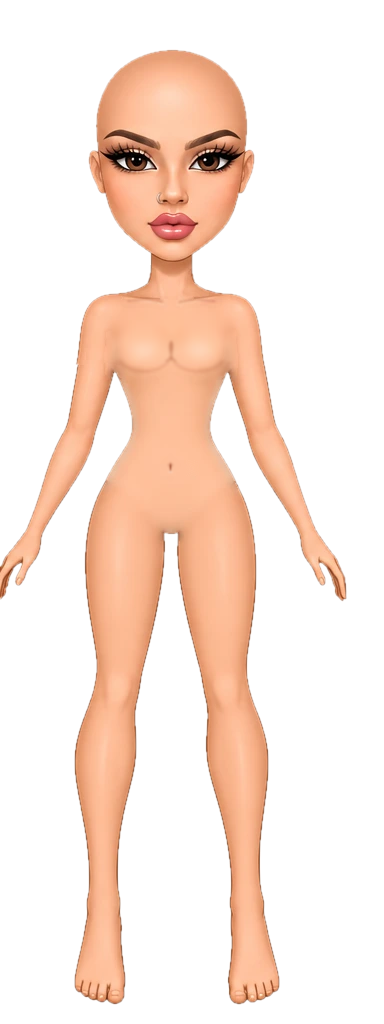
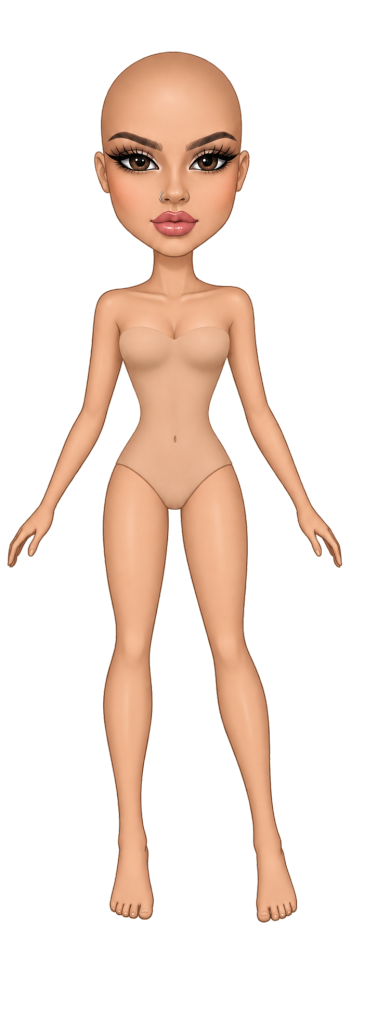
closet: boneca nova e cantos soltos

Changed region(s): [[0.0, 0.0312, 0.9062, 1.0]]

diff --git a/components/Bonequinha.tsx b/components/Bonequinha.tsx
@@ -11,10 +11,16 @@ import {
 
 const P = "/bonequinha";
 const W = 384, H = 1024;
-type Ajustes = Record<string, Pos>;
+// cada peça: [x, y, largura, altura, giro] ou, depois de puxar um canto sozinho,
+// os 4 cantos soltos [x0,y0, x1,y1, x2,y2, x3,y3] (sup-esq, sup-dir, inf-dir, inf-esq)
+type Geo = number[] | Pos;
+type Ajustes = Record<string, Geo>;
+const ehQuad = (g: Geo) => g.length === 8;
 const partesDe = (id: string) => PARTES[id] ?? [id];
 // desenha a peça no lugar dela, girando em volta do centro
-function desenharPeca(ctx: CanvasRenderingContext2D, img: CanvasImageSource, [x, y, w, h, r = 0]: Pos) {
+function desenharPeca(ctx: CanvasRenderingContext2D, img: HTMLImageElement, g: Geo) {
+  if (ehQuad(g)) return desenharQuad(ctx, img, quadDe(g));
+  const [x, y, w, h, r = 0] = g;
   ctx.save(); ctx.translate(x + w / 2, y + h / 2); ctx.rotate((r * Math.PI) / 180);
   ctx.drawImage(img, -w / 2, -h / 2, w, h); ctx.restore();
 }
@@ -30,6 +36,36 @@ function mangaEntre(id: string, w: number, A: number[], B: number[]): Pos {
   const cx = A[0] + Math.sin(r) * (v1 - 0.5) * h, cy = A[1] - Math.cos(r) * (v1 - 0.5) * h;
   return [cx - w / 2, cy - h / 2, w, h, (r * 180) / Math.PI];
 }
+// desenha a imagem esticada nos 4 cantos (em pedacinhos, pra entortar sem quebrar)
+function desenharQuad(ctx: CanvasRenderingContext2D, img: HTMLImageElement, q: number[][]) {
+  const iw = img.naturalWidth || img.width, ih = img.naturalHeight || img.height;
+  const [p0, p1, p2, p3] = q;
+  const ponto = (u: number, v: number) => [
+    p0[0] * (1 - u) * (1 - v) + p1[0] * u * (1 - v) + p2[0] * u * v + p3[0] * (1 - u) * v,
+    p0[1] * (1 - u) * (1 - v) + p1[1] * u * (1 - v) + p2[1] * u * v + p3[1] * (1 - u) * v,
+  ];
+  const tri = (s: number[][], d: number[][]) => {
+    const [[x0, y0], [x1, y1], [x2, y2]] = s, [[u0, v0], [u1, v1], [u2, v2]] = d;
+    const det = (x1 - x0) * (y2 - y0) - (x2 - x0) * (y1 - y0); if (!det) return;
+    const a = ((u1 - u0) * (y2 - y0) - (u2 - u0) * (y1 - y0)) / det, b = ((v1 - v0) * (y2 - y0) - (v2 - v0) * (y1 - y0)) / det;
+    const c = ((u2 - u0) * (x1 - x0) - (u1 - u0) * (x2 - x0)) / det, e = ((v2 - v0) * (x1 - x0) - (v1 - v0) * (x2 - x0)) / det;
+    const cx = (u0 + u1 + u2) / 3, cy = (v0 + v1 + v2) / 3;
+    ctx.save(); ctx.beginPath();
+    // aumenta um tiquinho o triângulo pra não aparecer risquinho entre os pedaços
+    d.forEach(([u, v], i) => { const k = Math.hypot(u - cx, v - cy) || 1, px = u + ((u - cx) / k) * 0.7, py = v + ((v - cy) / k) * 0.7; if (i) ctx.lineTo(px, py); else ctx.moveTo(px, py); });
+    ctx.closePath(); ctx.clip();
+    ctx.setTransform(a, b, c, e, u0 - a * x0 - c * y0, v0 - b * x0 - e * y0);
+    ctx.drawImage(img, 0, 0); ctx.restore();
+  };
+  const N = 8;
+  for (let i = 0; i < N; i++) for (let j = 0; j < N; j++) {
+    const u0 = i / N, u1 = (i + 1) / N, v0 = j / N, v1 = (j + 1) / N;
+    const s00 = [u0 * iw, v0 * ih], s10 = [u1 * iw, v0 * ih], s11 = [u1 * iw, v1 * ih], s01 = [u0 * iw, v1 * ih];
+    const d00 = ponto(u0, v0), d10 = ponto(u1, v0), d11 = ponto(u1, v1), d01 = ponto(u0, v1);
+    tri([s00, s10, s11], [d00, d10, d11]); tri([s00, s11, s01], [d00, d11, d01]);
+  }
+}
+const quadDe = (g: Geo): number[][] => (ehQuad(g) ? [0, 2, 4, 6].map((i) => [g[i] as number, g[i + 1] as number]) : cantos(g as Pos));
 // cantos da peça já girados: [sup-esq, sup-dir, inf-dir, inf-esq]
 function cantos([x, y, w, h, r = 0]: Pos) {
   const cx = x + w / 2, cy = y + h / 2, c = Math.cos((r * Math.PI) / 180), s = Math.sin((r * Math.PI) / 180);
@@ -122,13 +158,13 @@ async function desenharBoneca(ctx: CanvasRenderingContext2D, l: Look, aj: Ajuste
   for (const a of l.acessorios) ctx.drawImage(await carregar(`${P}/acessorios/${a}.webp`), 0, 0);
   // no modo ajustar, contorna a peça que está sendo mexida
   if (marcar && (marcar === l.cabelo || roupas.some((r) => partesDe(r).includes(marcar)))) {
-    const pos = aj[marcar] ?? POSICOES[marcar], k = cantos(pos);
+    const pos = aj[marcar] ?? POSICOES[marcar], k = quadDe(pos);
     ctx.save(); ctx.setLineDash([8, 6]); ctx.lineWidth = 2.5; ctx.strokeStyle = "#ff2d95";
     ctx.beginPath(); k.forEach(([x, y], i) => (i ? ctx.lineTo(x, y) : ctx.moveTo(x, y))); ctx.closePath(); ctx.stroke();
     ctx.setLineDash([]); ctx.fillStyle = "#fff"; ctx.lineWidth = 3;
     if (EIXO[marcar]) {
       // manga: uma bolinha no ombro e outra no pulso, ligadas por uma linha
-      const [A, B] = pontosEixo(marcar, pos);
+      const [A, B] = pontosEixo(marcar, pos as Pos);
       ctx.beginPath(); ctx.moveTo(A[0], A[1]); ctx.lineTo(B[0], B[1]); ctx.stroke();
       for (const [x, y] of [A, B]) { ctx.beginPath(); ctx.arc(x, y, 10, 0, Math.PI * 2); ctx.fill(); ctx.stroke(); }
     } else for (const [x, y] of k) { ctx.beginPath(); ctx.arc(x, y, 9, 0, Math.PI * 2); ctx.fill(); ctx.stroke(); }
@@ -226,14 +262,14 @@ export default function Bonequinha() {
   const [ajustando, setAjustando] = useState(false);
   const [editando, setEditando] = useState<string | null>(null);
   const [aviso, setAviso] = useState("");
-  const arrasto = useRef<{ px: number; py: number; ini: Pos; canto: number } | null>(null);
+  const arrasto = useRef<{ px: number; py: number; ini: Geo; canto: number } | null>(null);
 
   // posições salvas pela Alana
   useEffect(() => {
-    supabase().from("bonequinha_ajustes").select("id,x,y,w,h,r").then(({ data }) => {
+    supabase().from("bonequinha_ajustes").select("id,x,y,w,h,r,q").then(({ data }) => {
       if (!data) return;
       const a: Ajustes = {};
-      for (const r of data) a[r.id] = [r.x, r.y, r.w, r.h, r.r ?? 0];
+      for (const r of data) a[r.id] = r.q?.length === 8 ? r.q : [r.x, r.y, r.w, r.h, r.r ?? 0];
       setAjustes(a);
     });
   }, []);
@@ -288,20 +324,32 @@ export default function Bonequinha() {
   /* ---------- modo ajustar (só pra Alana logada) ---------- */
   const vestidas = (look.vestido ? [look.vestido] : [look.cima, look.baixo].filter((r): r is string => !!r)).flatMap((r) => [...partesDe(r)].reverse()).concat(look.cabelo ? [look.cabelo] : []);
   const alvo = editando && vestidas.includes(editando) ? editando : vestidas[0] ?? null;
-  const posDe = (id: string): Pos => ajustes[id] ?? POSICOES[id];
-  const mexer = (f: (p: Pos) => Pos) => {
+  const posDe = (id: string): Geo => ajustes[id] ?? POSICOES[id];
+  const mexer = (f: (p: Geo) => Geo) => {
     if (!alvo) return;
     setAjustes((a) => ({ ...a, [alvo]: f(a[alvo] ?? POSICOES[alvo]) }));
     setAviso("");
   };
   // muda o tamanho mantendo o centro no lugar
-  const escala = (fw: number, fh: number) => mexer(([x, y, w, h, r]) => [x + (w - w * fw) / 2, y + (h - h * fh) / 2, w * fw, h * fh, r]);
-  const andar = (dx: number, dy: number) => mexer(([x, y, w, h, r]) => [x + dx, y + dy, w, h, r]);
+  // com os 4 cantos soltos: mexe nos 4 pontos em volta do meio deles
+  const noQuad = (g: Geo, f: (x: number, y: number, cx: number, cy: number) => number[]) => {
+    const q = quadDe(g), cx = q.reduce((t, p) => t + p[0], 0) / 4, cy = q.reduce((t, p) => t + p[1], 0) / 4;
+    return q.flatMap(([x, y]) => f(x, y, cx, cy));
+  };
+  const escala = (fw: number, fh: number) => mexer((g) => {
+    if (ehQuad(g)) return noQuad(g, (x, y, cx, cy) => [cx + (x - cx) * fw, cy + (y - cy) * fh]);
+    const [x, y, w, h, r] = g; return [x + (w - w * fw) / 2, y + (h - h * fh) / 2, w * fw, h * fh, r ?? 0];
+  });
+  const andar = (dx: number, dy: number) => mexer((g) => {
+    if (ehQuad(g)) return g.map((v, i) => (v ?? 0) + (i % 2 ? dy : dx));
+    const [x, y, w, h, r] = g; return [x + dx, y + dy, w, h, r ?? 0];
+  });
   // manga gira em volta do ombro; o resto gira em volta do meio
   const girar = (g: number) => mexer((p) => {
+    if (ehQuad(p)) { const t = (g * Math.PI) / 180, c = Math.cos(t), s = Math.sin(t); return noQuad(p, (x, y, cx, cy) => [cx + (x - cx) * c - (y - cy) * s, cy + (x - cx) * s + (y - cy) * c]); }
     const [x, y, w, h, r = 0] = p;
     if (!alvo || !EIXO[alvo]) return [x, y, w, h, r + g];
-    const [A, B] = pontosEixo(alvo, p), t = (g * Math.PI) / 180, dx = B[0] - A[0], dy = B[1] - A[1];
+    const [A, B] = pontosEixo(alvo, p as Pos), t = (g * Math.PI) / 180, dx = B[0] - A[0], dy = B[1] - A[1];
     return mangaEntre(alvo, w, A, [A[0] + dx * Math.cos(t) - dy * Math.sin(t), A[1] + dx * Math.sin(t) + dy * Math.cos(t)]);
   });
   const salvar = async () => {
@@ -311,8 +359,10 @@ export default function Bonequinha() {
     const ids = dono ? PARTES[dono] : [alvo];
     setAviso("salvando...");
     const { error } = await supabase().from("bonequinha_ajustes").upsert(ids.map((id) => {
-      const [x, y, w, h, r = 0] = posDe(id);
-      return { id, x, y, w, h, r, atualizado_em: new Date().toISOString() };
+      const g = posDe(id), q = quadDe(g), xs = q.map((p) => p[0]), ys = q.map((p) => p[1]);
+      if (ehQuad(g)) return { id, x: Math.min(...xs), y: Math.min(...ys), w: Math.max(...xs) - Math.min(...xs), h: Math.max(...ys) - Math.min(...ys), r: 0, q: g, atualizado_em: new Date().toISOString() };
+      const [x, y, w, h, r = 0] = g;
+      return { id, x, y, w, h, r, q: null, atualizado_em: new Date().toISOString() };
     }));
     setAviso(error ? "não consegui salvar 😢 tenta de novo" : "salvo! ✨");
   };
@@ -362,30 +412,29 @@ export default function Bonequinha() {
                 // pegou numa bolinha do canto? então é pra mudar o tamanho
                 // nas mangas: 4 = ombro, 5 = pulso
                 const canto = EIXO[alvo]
-                  ? (() => { const i = pontosEixo(alvo, ini).findIndex(([x, y]) => Math.hypot(px - x, py - y) < 24); return i < 0 ? -1 : 4 + i; })()
-                  : cantos(ini).findIndex(([x, y]) => Math.hypot(px - x, py - y) < 22);
+                  ? (() => { const i = pontosEixo(alvo, ini as Pos).findIndex(([x, y]) => Math.hypot(px - x, py - y) < 24); return i < 0 ? -1 : 4 + i; })()
+                  : quadDe(ini).findIndex(([x, y]) => Math.hypot(px - x, py - y) < 22);
                 arrasto.current = { px, py, ini, canto };
               }}
               onPointerMove={(e) => {
                 const a = arrasto.current; if (!a || !alvo) return;
                 const { px, py } = ponto(e);
-                const [x, y, w, h, r = 0] = a.ini;
-                if (a.canto < 0) { mexer(() => [x + px - a.px, y + py - a.py, w, h, r]); return; }
+                if (a.canto < 0) {
+                  const dx = px - a.px, dy = py - a.py;
+                  mexer(() => (ehQuad(a.ini) ? a.ini.map((v, i) => (v ?? 0) + (i % 2 ? dy : dx)) : [a.ini[0] + dx, a.ini[1] + dy, a.ini[2], a.ini[3], a.ini[4] ?? 0]));
+                  return;
+                }
+                const [, , w] = a.ini;
                 if (a.canto >= 4) {
                   // a ponta que você não está puxando fica presa
-                  const [A, B] = pontosEixo(alvo, a.ini), P2 = [px, py];
+                  const [A, B] = pontosEixo(alvo, a.ini as Pos), P2 = [px, py];
                   mexer(() => (a.canto === 5 ? mangaEntre(alvo, w, A, P2) : mangaEntre(alvo, w, P2, B)));
                   return;
                 }
-                // o canto oposto fica parado; conta tudo "desgirado"
-                const k = cantos(a.ini), op = k[(a.canto + 2) % 4];
-                const c = Math.cos((r * Math.PI) / 180), s = Math.sin((r * Math.PI) / 180);
-                const dx = px - op[0], dy = py - op[1];
-                const lx = dx * c + dy * s, ly = -dx * s + dy * c;
-                const nw = Math.max(12, Math.abs(lx)), nh = Math.max(12, Math.abs(ly));
-                const mx = ((Math.sign(lx) || 1) * nw) / 2, my = ((Math.sign(ly) || 1) * nh) / 2;
-                const cx = op[0] + mx * c - my * s, cy = op[1] + mx * s + my * c;
-                mexer(() => [cx - nw / 2, cy - nh / 2, nw, nh, r]);
+                // só o canto que você está puxando se mexe; os outros 3 ficam presos
+                const q = quadDe(a.ini).flat(), k = a.canto * 2;
+                q[k] += px - a.px; q[k + 1] += py - a.py;
+                mexer(() => q);
               }}
               onPointerUp={() => { arrasto.current = null; }}
               onPointerCancel={() => { arrasto.current = null; }}
@@ -416,7 +465,7 @@ export default function Bonequinha() {
                     {vestidas.map((v) => <button key={v} className={alvo === v ? "on" : ""} onClick={() => setEditando(v)}>{nomeDe(v)}</button>)}
                   </div>
                 )}
-                <p><b>{nomeDe(alvo)}</b> · {EIXO[alvo] ? "puxa a bolinha do ombro e a do pulso; a outra ponta fica presa" : "arrasta a roupa na boneca ou puxa as bolinhas dos cantos"}</p>
+                <p><b>{nomeDe(alvo)}</b> · {EIXO[alvo] ? "puxa a bolinha do ombro e a do pulso; a outra ponta fica presa" : "arrasta a peça pra mudar de lugar ou puxa cada bolinha do canto sozinha"}</p>
                 <div className="bq-ajuste-linhas">
                   <span>tamanho</span><button onClick={() => escala(0.98, 0.98)}>−</button><button onClick={() => escala(1.02, 1.02)}>+</button>
                   <span>largura</span><button onClick={() => escala(0.98, 1)}>−</button><button onClick={() => escala(1.02, 1)}>+</button>
